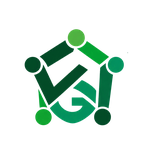
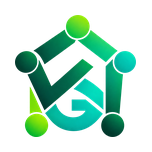
v2.11.5

diff --git a/index.html b/index.html
@@ -8,8 +8,8 @@
 <meta name="apple-mobile-web-app-status-bar-style" content="default">
 <meta name="apple-mobile-web-app-title" content="VGI Digital">
 <meta name="application-name" content="VGI Digital">
-<meta name="theme-color" content="#0B6148">
-<meta name="msapplication-TileColor" content="#0B6148">
+<meta name="theme-color" content="#013E31">
+<meta name="msapplication-TileColor" content="#013E31">
 <meta name="description" content="Calculadora de escalas de la valoración geriátrica integral: eje clínico, funcional, mental y social.">
 
 <link rel="canonical" href="https://drcllano.github.io/vgi-herramienta-digital/">
@@ -60,7 +60,7 @@
   "url": "https://drcllano.github.io/vgi-herramienta-digital/",
   "identifier": "https://doi.org/10.17605/OSF.IO/KMX8H",
   "sameAs": ["https://doi.org/10.17605/OSF.IO/KMX8H", "https://osf.io/kmx8h/"],
-  "softwareVersion": "2.11.4",
+  "softwareVersion": "2.11.5",
   "datePublished": "2026-09-10",
   "dateModified": "2026-10-03",
   "inLanguage": "es",
@@ -2576,7 +2576,7 @@ function tabIcon(id){
 function renderTabs(){
   const n = Object.keys(VGI).length;
   const shortLabel = {clinico:'Clín.', funcional:'Func.', mental:'Mental', social:'Social', paliativo:'Paliat.'};
-  $('#tabs').innerHTML = '<div class="nav-brand"><img class="brand-logo-mark" src="icon-192.png" width="42" height="42" alt="" aria-hidden="true"><div><strong>VGI Digital</strong><small>Versión 2.11.4</small></div></div>'
+  $('#tabs').innerHTML = '<div class="nav-brand"><img class="brand-logo-mark" src="icon-192.png" width="42" height="42" alt="" aria-hidden="true"><div><strong>VGI Digital</strong><small>Versión 2.11.5</small></div></div>'
     + '<div class="nav-label">Dominios de valoración</div>'
     + EJES.map(e=>
     '<button data-tab="'+e.id+'" aria-label="Eje '+esc(e.label)+'" style="--tab:var(--'+e.id+')" '+(state.view==='list'&&state.eje===e.id?'aria-current="true"':'')+'>'
@@ -3084,7 +3084,7 @@ function renderAbout(){
 
   + '<h3>Cómo citar</h3>'
   + '<p>El identificador permanente de esta herramienta es un DOI, que resuelve al depósito en el Open Science Framework. Es el que debe citarse, no la dirección de la página.</p>'
-  + '<div class="cite">Llano Ceballos CC. VGI Digital: herramienta digital para la Valoración Geriátrica Integral (versión 2.11.4) [software]. Open Science Framework; 2026. DOI <a href="https://doi.org/10.17605/OSF.IO/KMX8H" target="_blank" rel="noopener noreferrer">10.17605/OSF.IO/KMX8H</a></div>'
+  + '<div class="cite">Llano Ceballos CC. VGI Digital: herramienta digital para la Valoración Geriátrica Integral (versión 2.11.5) [software]. Open Science Framework; 2026. DOI <a href="https://doi.org/10.17605/OSF.IO/KMX8H" target="_blank" rel="noopener noreferrer">10.17605/OSF.IO/KMX8H</a></div>'
   + '<p>Depósito: <a href="https://osf.io/kmx8h/" target="_blank" rel="noopener noreferrer">osf.io/kmx8h</a>. Código fuente: <a href="https://github.com/drcllano/vgi-herramienta-digital" target="_blank" rel="noopener noreferrer">github.com/drcllano/vgi-herramienta-digital</a>, donde el archivo CITATION.cff trae los metadatos de citación en formato legible por gestores bibliográficos.</p>'
 
   + '<h3>Comentarios y sugerencias</h3>'
@@ -3096,6 +3096,7 @@ function renderAbout(){
   + '<p>A la Unidad de Geriatría del Hospital Universitario San Ignacio, y en particular a los doctores Diego Andrés Chavarro Carvajal, Carlos Alberto Cano Gutiérrez y Rodrigo Alberto Heredia Ramírez, por su respaldo a esta herramienta y por el manual que le da su contenido.</p>'
 
   + '<details class="acc"><summary>Historial de versiones</summary>'
+  + '<div class="cite"><strong>2.11.5</strong> · Se renueva la identidad visual a partir del símbolo VGI Digital en degradado (verde bosque, verde, lima y aguamarina): nuevo símbolo, logotipo e iconos de la aplicación instalable, barra lateral y barra de resultado en verde bosque, filete de marca bajo la cabecera y tonos neutros con matiz verde. Los colores de los cinco ejes se conservan. Sin cambios en las escalas, el conversor, sus reglas de cálculo, puntos de corte ni interpretaciones clínicas.</div>'
   + '<div class="cite"><strong>2.11.4</strong> · Se añade en Acerca de la sección Agradecimientos. Sin cambios en las escalas, el conversor, sus reglas de cálculo, puntos de corte ni interpretaciones clínicas.</div>'
   + '<div class="cite"><strong>2.11.3</strong> · Corrección de dos avisos de la interfaz, sin cambios en las escalas, sus reglas de cálculo, puntos de corte ni interpretaciones clínicas. Siete instrumentos con ítems de selección múltiple o numéricos (Downton, VES-13, FRAIL, MOS, EQ-5D, vulnerabilidad social y maltrato) mostraban al abrirse un puntaje parcial o criterios completos en lugar de Sin iniciar, porque esos ítems se inicializan en 0; ahora muestran Sin iniciar hasta que se marca una opción o se escribe un valor. En la ficha de evidencia del MOS la regla ya no dice que el resultado no se obtiene por suma de puntos: indica que procede de la suma de los ítems, en un índice global y por componentes.</div>'
   + '<div class="cite"><strong>2.11.2</strong> · Corrección del rango general en la ficha de evidencia, sin cambios en las escalas, sus reglas de cálculo, puntos de corte ni interpretaciones clínicas. En Ver evidencia y referencia, la línea Rango partía siempre de 0; ahora parte del mínimo posible, como los tramos desde la 2.11.1 (Norton, 5 a 20; Short FES-I, 7 a 28; Zarit, 22 a 110). En el MOS, que no tiene tramos, el rango pasa de 0 a 95 a 19 a 95: el número de personas de la red cercana se registra aparte y no suma al total.</div>'
@@ -3127,7 +3128,7 @@ function renderAbout(){
   + '<div class="cite"><strong>1.0</strong> · Nueve escalas basadas en el manual de 2020.</div>'
   + '</details>'
 
-  + '<p class="disclaimer">Versión 2.11.4 · '+new Date().getFullYear()+'. Los derechos sobre el manual pertenecen a sus autores y a la Pontificia Universidad Javeriana, cuyos editores autorizaron su uso en esta herramienta. Uso exclusivamente educativo y de investigación, sin finalidad comercial; algunos instrumentos tienen titular de derechos propio (ver NOTICE.md).</p>'
+  + '<p class="disclaimer">Versión 2.11.5 · '+new Date().getFullYear()+'. Los derechos sobre el manual pertenecen a sus autores y a la Pontificia Universidad Javeriana, cuyos editores autorizaron su uso en esta herramienta. Uso exclusivamente educativo y de investigación, sin finalidad comercial; algunos instrumentos tienen titular de derechos propio (ver NOTICE.md).</p>'
   + '</div>';
 }
 

diff --git a/ui-v3.css b/ui-v3.css
@@ -123,3 +123,71 @@ header.top{align-items:center;min-height:76px;padding:calc(14px + env(safe-area-
 @media (min-width:1240px){
   #list .grp-eje{display:none;}
 }
+
+/* ============================================================
+   2.11.5 · Identidad visual a partir del símbolo en degradado
+   Paleta tomada del símbolo nuevo: verde bosque, verde, lima y
+   aguamarina. Los colores de los cinco ejes NO cambian, porque
+   identifican cada eje en toda la aplicación.
+   ============================================================ */
+:root{
+  --marca-bosque:#013E31;
+  --marca-verde:#038A62;
+  --marca-lima:#74DD23;
+  --marca-agua:#02D4B9;
+  --ink:#122822;
+  --ink-2:#3B5049;
+  --muted:#5E716A;
+  --paper:#F2F7F5;
+  --line:#D9E6E0;
+  --line-2:#ABC0B7;
+  --field:#F8FBFA;
+  --tint:#E7F2EE;
+  --tint-2:#EFF6F3;
+  --bar:#013E31;
+  --glass-top:rgba(242,247,245,.92);
+  --rail:#D9E6E0;
+  --sombra:0 14px 38px rgba(1,62,49,.12);
+  --soft-shadow:0 5px 18px rgba(1,62,49,.07);
+}
+
+/* Filete de marca bajo la cabecera: lima, aguamarina y verde bosque */
+header.top::after{
+  content:"";position:absolute;left:0;right:0;bottom:0;height:2px;
+  background:linear-gradient(90deg,var(--marca-lima),var(--marca-agua) 45%,var(--marca-verde) 75%,var(--marca-bosque));
+  opacity:.75;pointer-events:none;
+}
+
+/* Barra lateral de escritorio: verde bosque con el arco aguamarina del logotipo */
+@media (min-width:960px){
+  nav.tabs{
+    background:
+      radial-gradient(circle 300px at 0% 100%,transparent 0 198px,rgba(2,212,185,.06) 212px,rgba(2,212,185,.16) 236px,rgba(2,212,185,.05) 262px,transparent 290px),
+      linear-gradient(180deg,#02493A 0%,#013E31 45%,#012E25 100%);
+    box-shadow:12px 0 36px rgba(1,62,49,.12);
+  }
+  nav.tabs button{color:#C0D9CF;}
+  nav.tabs button:hover{background:rgba(255,255,255,.07);}
+  .nav-brand small{color:#A9C9BC;}
+  .nav-label{color:#98BCAE;}
+  .nav-foot{color:#C0D9CF;border-top-color:rgba(255,255,255,.10);}
+  .nav-foot span{color:#98BCAE;}
+  .nav-count{background:rgba(2,212,185,.16);}
+  .brand-logo-mark{width:44px;height:44px;border-radius:12px;padding:3px;box-shadow:0 0 0 1px rgba(2,212,185,.35);}
+}
+
+/* Bloque de marca en "Acerca de": el logotipo sobre el arco aguamarina */
+.brand-showcase{
+  position:relative;overflow:hidden;
+  padding:34px 22px;
+  border:1px solid var(--line);border-radius:22px;
+  background:
+    radial-gradient(circle 460px at 22% 152%,transparent 0 318px,rgba(2,212,185,.09) 340px,rgba(2,212,185,.19) 372px,rgba(2,212,185,.07) 410px,transparent 450px),
+    radial-gradient(circle 220px at 100% 0%,rgba(116,221,35,.08),transparent 220px),
+    #FFFFFF;
+}
+.brand-showcase img{max-width:320px;}
+@media (max-width:560px){
+  .brand-showcase{padding:26px 16px;}
+  .brand-showcase img{max-width:240px;}
+}

diff --git a/README.md b/README.md
@@ -9,7 +9,7 @@ Valoración Geriátrica Integral (VGI), organizadas según los cuatro ejes de la
 evaluación (clínico, funcional, mental y social) más una sección de paliativos
 y pronóstico.
 
-**Versión 2.11.4** · 47 escalas y un conversor de dosis equianalgésicas de opioides. Desde la versión 2.11.0 el eje clínico incluye las secciones de valoración prequirúrgica y de futilidad en TAVI.
+**Versión 2.11.5** · 47 escalas y un conversor de dosis equianalgésicas de opioides. Desde la versión 2.11.0 el eje clínico incluye las secciones de valoración prequirúrgica y de futilidad en TAVI.
 
 ## Abrir la herramienta
 
@@ -99,7 +99,7 @@ citarse.
 
 La carpeta [`verificacion/`](verificacion/) contiene el script que ejecuta las
 tres pruebas automatizadas sobre `index.html` y el resultado fechado de las
-versiones 2.10.6 a 2.11.4. [`SHA256SUMS.txt`](SHA256SUMS.txt) lista la suma SHA-256 de
+versiones 2.10.6 a 2.11.5. [`SHA256SUMS.txt`](SHA256SUMS.txt) lista la suma SHA-256 de
 cada archivo, para comprobar que el repositorio y el depósito de OSF contienen
 exactamente la misma versión.
 
@@ -108,7 +108,7 @@ exactamente la misma versión.
 Véase [`CITATION.cff`](CITATION.cff). Formato sugerido:
 
 > Llano Ceballos CC. VGI Digital: herramienta digital
-> para la Valoración Geriátrica Integral (versión 2.11.4) [software]. Open Science
+> para la Valoración Geriátrica Integral (versión 2.11.5) [software]. Open Science
 > Framework; 2026. https://doi.org/10.17605/OSF.IO/KMX8H
 
 ## Licencia y derechos
@@ -136,7 +136,7 @@ derechos propio y condiciones de uso específicas.
 | `LICENSE` | Licencia MIT del código fuente |
 | `NOTICE.md` | Alcance de la licencia y derechos sobre el contenido de las escalas |
 | `CITATION.cff` | Metadatos de citación |
-| `CHANGELOG.md` | Historial de versiones (1.0 a 2.11.4) |
+| `CHANGELOG.md` | Historial de versiones (1.0 a 2.11.5) |
 | `sw.js` | Service worker: permite el uso sin conexión tras la primera visita |
 | `manifest.json` | Manifiesto de la aplicación web progresiva |
 | `icon-*.png` | Iconos de la aplicación (120, 152, 167, 180, 192 y 512 px, más el icono *maskable*) |
@@ -156,5 +156,6 @@ derechos propio y condiciones de uso específicas.
 | `verificacion/resultado-2.11.2.json` | Resultado fechado de esas pruebas sobre la versión 2.11.2 |
 | `verificacion/resultado-2.11.3.json` | Resultado fechado de esas pruebas sobre la versión 2.11.3 |
 | `verificacion/resultado-2.11.4.json` | Resultado fechado de esas pruebas sobre la versión 2.11.4 |
+| `verificacion/resultado-2.11.5.json` | Resultado fechado de esas pruebas sobre la versión 2.11.5 |
 | `verificacion/LEEME.md` | Instrucciones para ejecutar la verificación |
 | `SHA256SUMS.txt` | Sumas SHA-256 de todos los archivos del depósito |

diff --git a/CHANGELOG.md b/CHANGELOG.md
@@ -3,6 +3,30 @@
 Transcrito del historial que la propia aplicación muestra en su sección
 "Acerca de".
 
+## 2.11.5
+
+Identidad visual renovada. Las 47 escalas, el conversor, sus reglas de
+cálculo, puntos de corte e interpretaciones no cambian.
+
+- El símbolo VGI Digital pasa a su versión en degradado (verde bosque, verde,
+  lima y aguamarina). Se sustituyen, con los mismos nombres de archivo,
+  `vgi-digital-simbolo-verde.png` (800x800 px), `vgi-digital-logo-verde.png`
+  (logotipo horizontal con el símbolo nuevo y el texto VGI DIGITAL en verde y
+  aguamarina) y los siete iconos de la aplicación instalable. Los iconos de
+  Apple llevan fondo blanco para que iOS no los muestre sobre negro, y el icono
+  enmascarable lleva fondo verde muy claro con el símbolo dentro de la zona
+  segura.
+- En `ui-v3.css` se añade una capa de identidad 2.11.5: barra lateral de
+  escritorio y barra de resultado en verde bosque (#013E31), arco aguamarina
+  del logotipo en la barra lateral y en el bloque de marca de Acerca de, filete
+  de marca bajo la cabecera y tonos neutros (fondo, líneas, texto) con matiz
+  verde. Los colores de los cinco ejes se conservan.
+- `theme-color`, `msapplication-TileColor` y el `theme_color` del manifest
+  pasan a #013E31; el `background_color` del manifest a #F2F7F5.
+- Se actualizan los metadatos de versión y la caché del service worker a
+  `v2.11.5`. El script de verificación se repitió sobre esta versión
+  (`verificacion/resultado-2.11.5.json`).
+
 ## 2.11.4
 
 Sección de agradecimientos. Las 47 escalas, el conversor, sus reglas de

diff --git a/verificacion/LEEME.md b/verificacion/LEEME.md
@@ -44,6 +44,9 @@ la ficha de evidencia (Norton, Short FES-I, Zarit y MOS); los recuentos no cambi
 `resultado-2.11.3.json` corresponde a la 2.11.3, que corrige el aviso "Sin iniciar"
 y la regla del MOS en la ficha de evidencia; los recuentos no cambian y la lista
 de fallos sigue vacía.
+`resultado-2.11.4.json` y `resultado-2.11.5.json` corresponden a la 2.11.4
+(sección de agradecimientos) y a la 2.11.5 (identidad visual); los recuentos no
+cambian y la lista de fallos sigue vacía.
 
 ## Alcance
 
